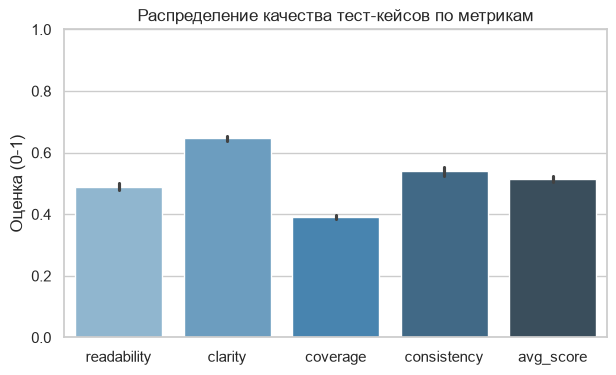
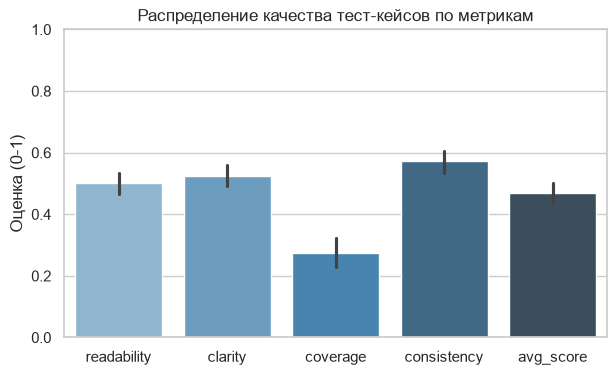
fix

diff --git a/main.py b/main.py
@@ -9,7 +9,8 @@ if __name__ == "__main__":
 
   print("\n=== Шаг 0.1. Обучение NLP-модели (PyTorch) на сгенерированном датасете ===")
   evaluator = TestCaseQualityEvaluator()
-  evaluator.train_on_dataset(dataset, epochs=3, lr=1e-4)
+  # Обучаем модель на датасете (увеличенное число эпох помогает лучше разделять оценки)
+  evaluator.train_on_dataset(dataset, epochs=10, lr=1e-4)
 
   print(
       "\n=== Шаг 1. Генерация тест-кейсов через Ollama (qwen2.5:1.5b) ==="

diff --git a/outputs/report.md b/outputs/report.md
@@ -1,9 +1,9 @@
 # Отчёт о тестировании сценариев
 
 ## Общая информация
-- Количество сценариев: 5
-- Успешные: 5
-- Неуспешные: 0
+- Количество сценариев: 6
+- Успешные: 2
+- Неуспешные: 4
 
 ## Распределение качества
 ![График распределения метрик](metrics_distribution.png)
@@ -11,8 +11,9 @@
 ## Список сценариев
 | Описание | Ожидаемый результат | Качество | Оценка |
 | --- | --- | --- | --- |
-| valid_username | valid_password | Успешно | 0.51 |
-| valid_username | invalid_password | Успешно | 0.52 |
-| invalid_username | valid_password | Успешно | 0.52 |
-| invalid_username | invalid_password | Успешно | 0.53 |
-| empty_username | valid_password | Успешно | 0.5 |
+| valid_login | valid_login | Требует доработки | 0.4 |
+| valid_password | valid_password | Требует доработки | 0.49 |
+| invalid_login | invalid_login | Требует доработки | 0.46 |
+| invalid_password | invalid_password | Успешно | 0.52 |
+| empty_login | empty_login | Требует доработки | 0.44 |
+| empty_password | empty_password | Успешно | 0.51 |
